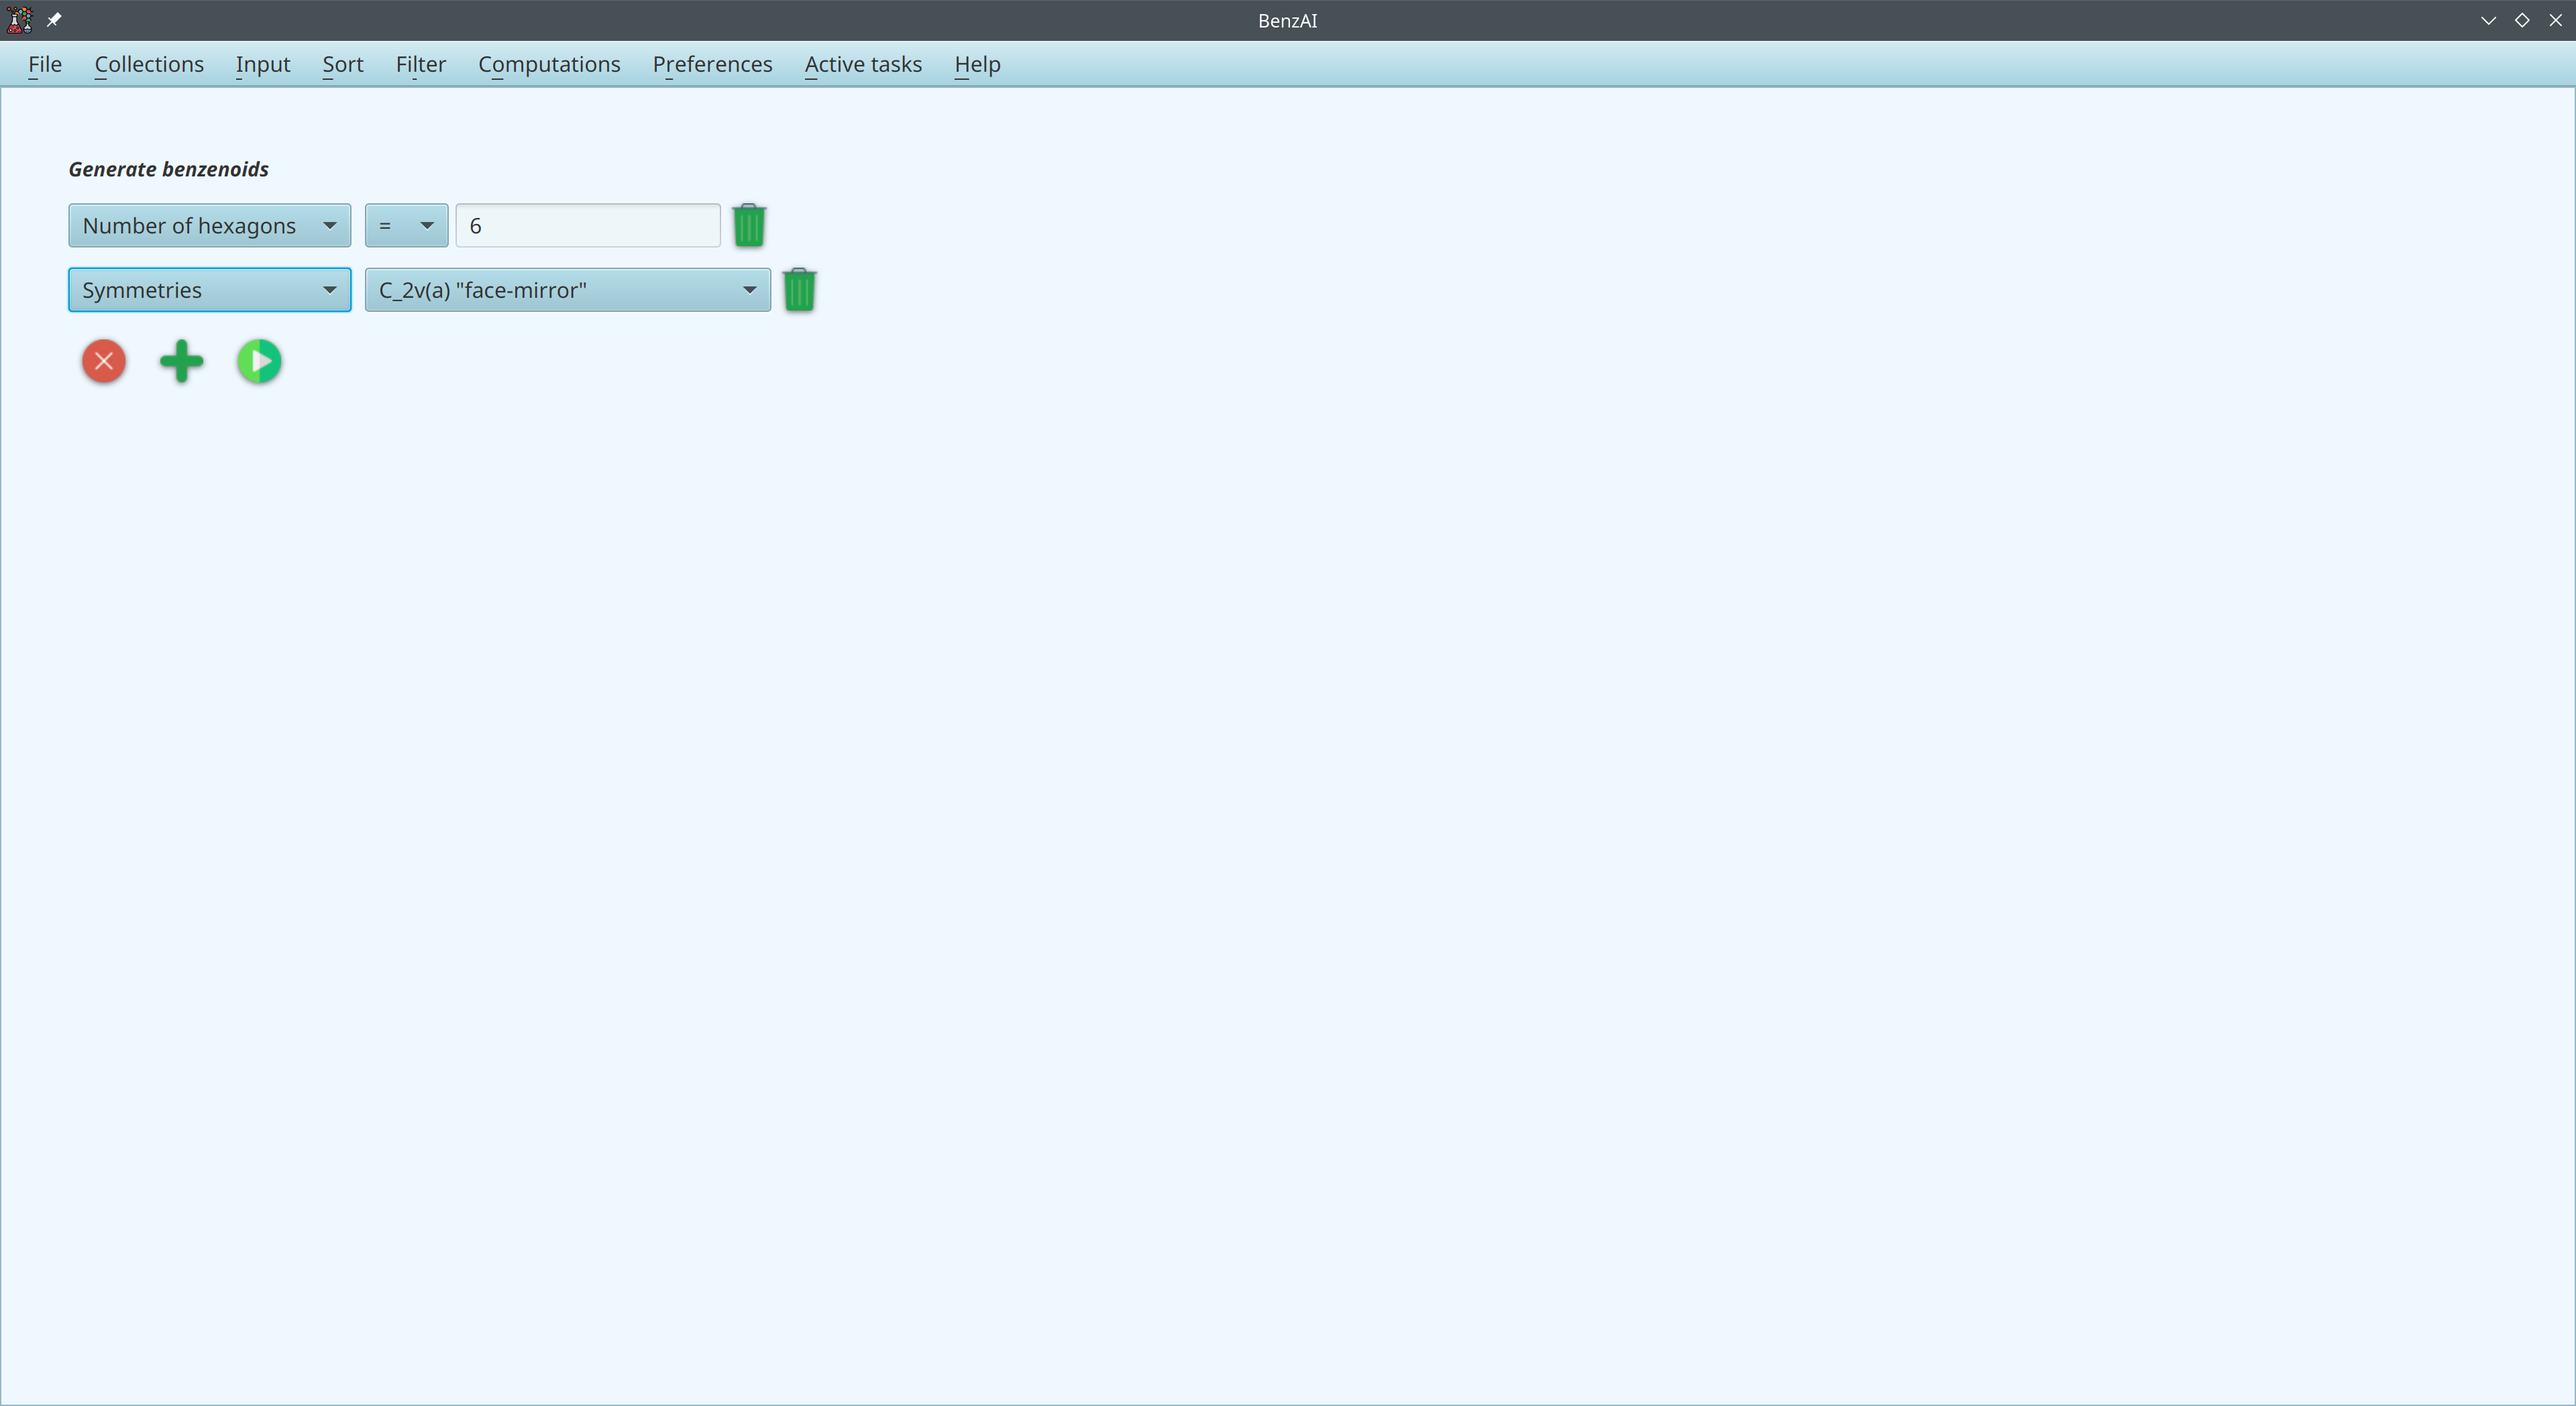
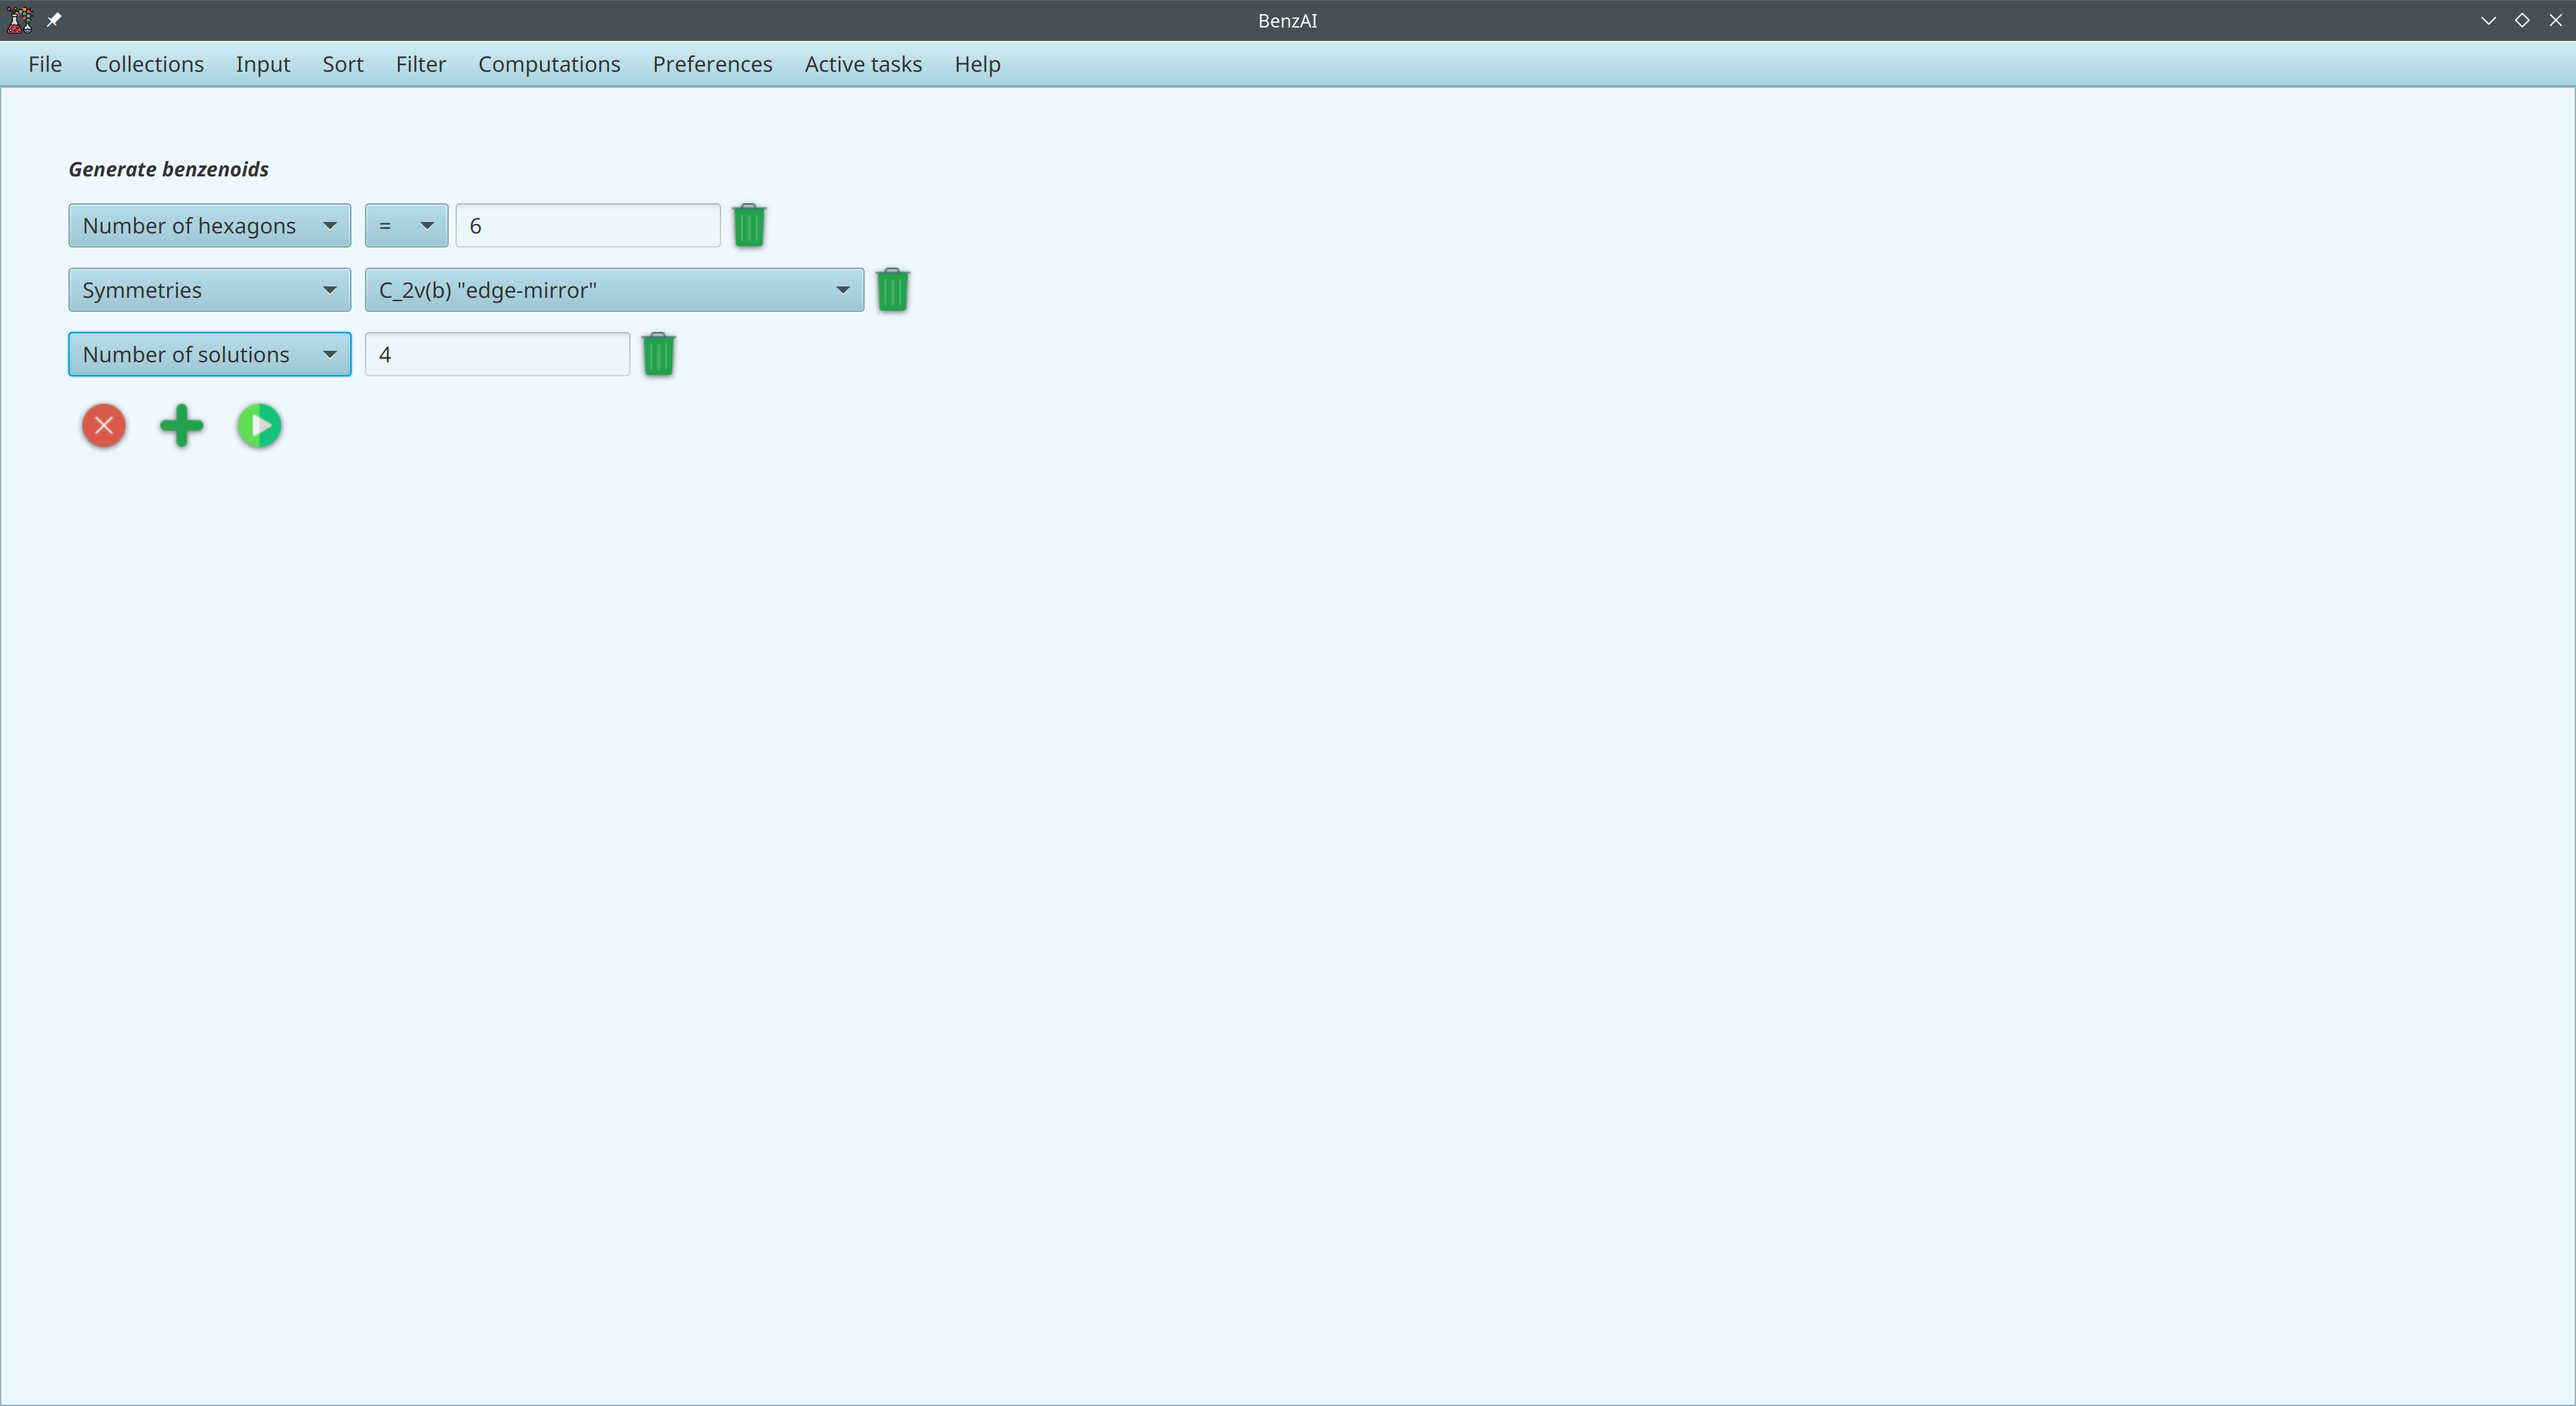
Update

diff --git a/use_cases.md b/use_cases.md
@@ -14,7 +14,7 @@ The first use case deals with the generation of the first four benzenoids having
 First, we go to the menu Input and choose the entry Generator.
 ![Menu](gallery/use_case_1_1.png)
 
-We impose as first criterion that the number of hexagons is equal to six. Then we define a second criterion related to the symmetry.
+We impose as the first criterion that the number of hexagons is equal to six. Then we define a second criterion related to the symmetry and the third one in order to limit the number of solutions to four.
 ![Criteria](gallery/use_case_1_2.png)
 
 Finally, we run the generation and obtain the first four desired benzenoids (among eleven).
